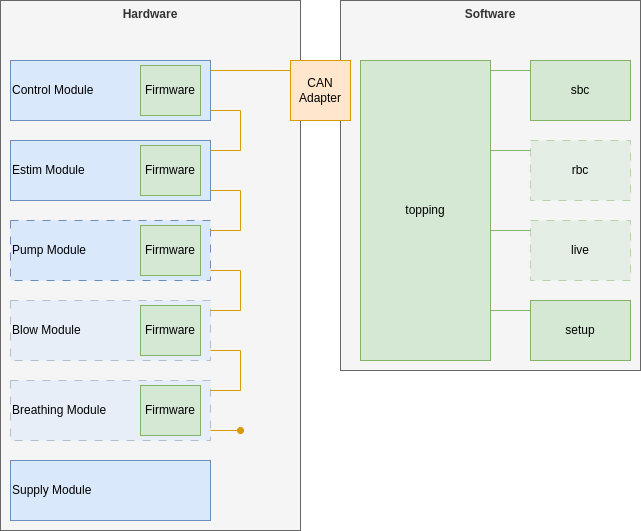
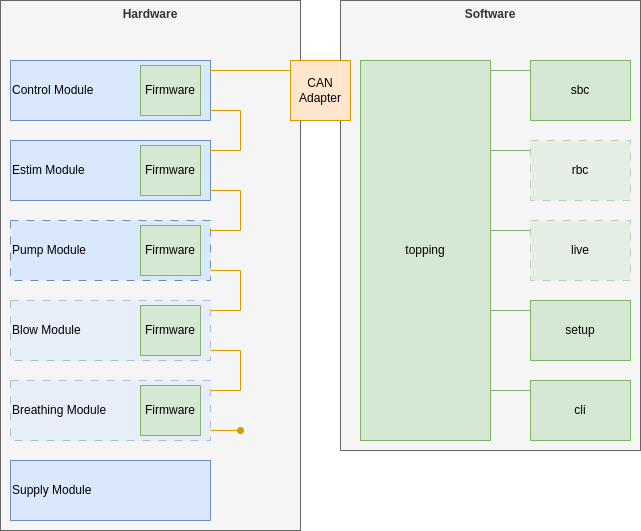
Topping and Setup started.

diff --git a/de/topping/setup.md b/de/topping/setup.md
@@ -1,0 +1,39 @@
+# Setup
+
+Nach dem starten von `topping` im Setup Modus:
+
+``` bash
+$ python3 main.py --config "config/config.ini" setup
+```
+
+werden zunächst alle Module die angeschlossen und eingeschalten sind erkannt. Dazu gibt es die Info über die installierte Firmware.
+
+<a href="/images/topping/setup/topping_setup_modules.png" target="_blank">![Modules](/images/topping/setup/topping_setup_modules.png)</a>
+
+Über das **Actions** Menü lässt sich zum jeweiligen Modul die Steuerung aufrufen, ein Firmware Update machen oder die dazugehärigen Datenbank Presets aufrufen:
+
+<a href="/images/topping/setup/topping_setup_modules_actions_estim.png" target="_blank">![Modules Action Estim](/images/topping/setup/topping_setup_modules_actions_estim.png)</a>
+
+## Estim Module Controller
+
+<a href="/images/topping/setup/topping_setup_estim_module_controller.png" target="_blank">![Modules Action Estim](/images/topping/setup/topping_setup_estim_module_controller.png)</a>
+
+Ich habe das Fenster ähnlich aufgebaut wie die [Commander Software](https://e-stim.info/commander) von [E-Stim Systems](http://www.e-stim.co.uk/). Ein paar Dinge habe ich mir des Komfort wegens dazu gebaut.
+
+Grundsätzlich möchte ich damit die Funktionalitäten des 2B für mich testen. Dazu ist es bestens geeignet.
+
+Im Unteren Bereich befindet sicht die Steuerung für den Multiplexer den es in drei Modis gibt.
+
+### Multiplexer Steuerung
+
+#### Kanal A / B Unabhängig
+
+<a href="/images/topping/setup/topping_setup_estim_module_controller_multiplexer_prg.png" target="_blank">![Modules Action Estim](/images/topping/setup/topping_setup_estim_module_controller_multiplexer_prg.png)</a>
+
+#### Kanal A / B Kombiniert
+
+<a href="/images/topping/setup/topping_setup_estim_module_controller_multiplexer_combined.png" target="_blank">![Modules Action Estim](/images/topping/setup/topping_setup_estim_module_controller_multiplexer_combined.png)</a>
+
+#### Manuell
+
+<a href="/images/topping/setup/topping_setup_estim_module_controller_multiplexer_man.png" target="_blank">![Modules Action Estim](/images/topping/setup/topping_setup_estim_module_controller_multiplexer_man.png)</a>

diff --git a/en/topping/setup.md b/en/topping/setup.md
@@ -1,0 +1,39 @@
+# Setup
+
+After starting `topping` in setup mode:
+
+``` bash
+$ python3 main.py --config "config/config.ini" setup
+```
+
+First, all connected and switched-on modules are detected. Information about the installed firmware is also provided.
+
+<a href="/images/topping/setup/topping_setup_modules.png" target="_blank">![Modules](/images/topping/setup/topping_setup_modules.png)</a>
+
+The **Actions** menu allows you to access the controls for each module, perform a firmware update, or access the associated database presets:
+
+<a href="/images/topping/setup/topping_setup_modules_actions_estim.png" target="_blank">![Modules Action Estim](/images/topping/setup/topping_setup_modules_actions_estim.png)</a>
+
+## Estim Module Controller
+
+<a href="/images/topping/setup/topping_setup_estim_module_controller.png" target="_blank">![Modules Action Estim](/images/topping/setup/topping_setup_estim_module_controller.png)</a>
+
+I set up the window similarly to the [Commander Software](https://e-stim.info/commander) from [E-Stim Systems](http://www.e-stim.co.uk/). I added a few things for convenience.
+
+Basically, I want to use it to test the functionalities of the 2B. It's perfectly suited for that purpose.
+
+The lower section contains the control for the multiplexer, which has three modes.
+
+### Multiplexer Controlling
+
+#### Channels A / B Independent
+
+<a href="/images/topping/setup/topping_setup_estim_module_controller_multiplexer_prg.png" target="_blank">![Modules Action Estim](/images/topping/setup/topping_setup_estim_module_controller_multiplexer_prg.png)</a>
+
+#### Channels A / B Combined
+
+<a href="/images/topping/setup/topping_setup_estim_module_controller_multiplexer_combined.png" target="_blank">![Modules Action Estim](/images/topping/setup/topping_setup_estim_module_controller_multiplexer_combined.png)</a>
+
+#### Manually
+
+<a href="/images/topping/setup/topping_setup_estim_module_controller_multiplexer_man.png" target="_blank">![Modules Action Estim](/images/topping/setup/topping_setup_estim_module_controller_multiplexer_man.png)</a>

diff --git a/de/topping/index.md b/de/topping/index.md
@@ -1,3 +1,19 @@
 # Topping
 
-Im Aufbau...
+In meiner Welt ist `topping` die Software die steuert und die Kontrolle hat :)
+
+::: tip topping
+"Topping" bezeichnet die dominante Rolle beim Sex. Der/Die Top übernimmt die Kontrolle und gibt dem/der Bottom vor, sich seinem/ihrem Willen zu fügen.
+:::
+
+Damit Du weißt, wo wir uns in der Übersicht befinden:
+
+<a href="/images/architecture.png" target="_blank">![Architecture](/images/architecture.png)</a>
+
+Wir springen nun zu der rechten Seite. Dazu habe ich die Software komplett Modular aufgebaut. Sie hat fünf ausprägungen von denen drei aktuell existieren.
+
+* `sbc` - Self Bondage Control
+* `rbc` - Remote Bondage Control
+* `live` - Live Session
+* `setup` - [Manuelle Bedienung der Module](/de/topping/setup)
+* `cli` - Kommandozeilen Tool (Datenbank)

diff --git a/en/topping/index.md b/en/topping/index.md
@@ -1,3 +1,20 @@
 # Topping
 
-Under construction...
+In my world, `topping` is the software that controls and has control :)
+
+::: tip topping
+"Topping" refers to being the dominant partner in sex. The designated top takes control of the act and
+commands the designated bottom to abide by their will.
+:::
+
+So you know where we are in the overview:
+
+<a href="/images/architecture.png" target="_blank">![Architecture](/images/architecture.png)</a>
+
+We now move to the right side. For this, I designed the software to be completely modular. It has five options, three of which currently exist.
+
+* `sbc` - Self Bondage Control
+* `rbc` - Remote Bondage Control
+* `live` - Live Session
+* `setup` - [Manual operation of the modules](/en/topping/setup)
+* `cli` - Command Line Tool (Database)
